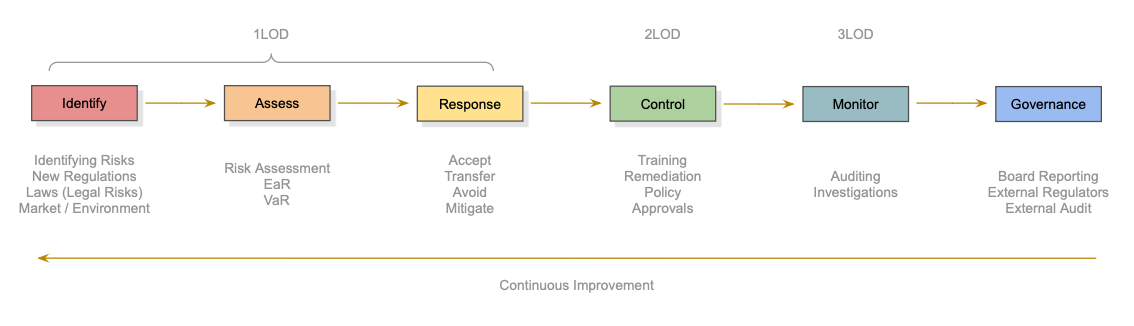
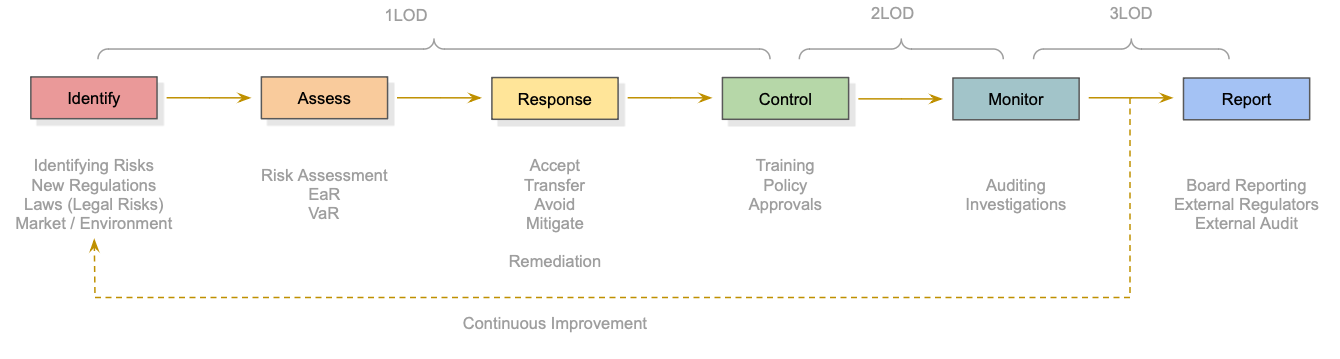
Added Amol's suggestions

diff --git a/docs/bok/Activities/Level-2/Consumption-Compliance.md b/docs/bok/Activities/Level-2/Consumption-Compliance.md
@@ -5,7 +5,7 @@ tags:
   - Level 2 (OSMM)
   - Risk-Compliance (Role)
   - Legal Risk
-sidebar_position: 6
+sidebar_position: 0
 sidebar_label: Compliance
 ---
 
@@ -27,6 +27,8 @@ The three lines of defence is a risk management model commonly used in the banki
 
 - **3LOD: Independent Assurance:** This includes **internal auditors** .  The third line of defence provides independent assurance on the effectiveness of the overall risk management framework and ensures that any deficiencies or gaps are addressed. This includes periodic audits, required disclosures and annual financial reporting. 
 
+Within regulated industries, the **3LOD**risk also reports upwards to:
+
 - **External auditors/regulators:**  **External auditors** can play an important role through their considerations of the governance and control structure where this is relevant to financial reporting.  For regulated entities,  governance and risk management requirements (see below for examples) are often set by **regulators**.
 
 Further Reading:
@@ -42,11 +44,23 @@ The compliance department plays a critical role in maintaining the bank's [reput
 
 ## Risk And Control:  A Case-Study
 
-All organisations should have some way of controlling for risks.  However, in regulated industries this framework is a significant part of the whole organisation, with multiple departments (e.g. Risk, Compliance, Internal Audit) participating in control processes.
+All organisations should have some framework for controlling for risks.  However, in regulated industries this framework is a significant part of the whole organisation, with multiple departments (e.g. Risk, Compliance, Internal Audit) participating in control processes.
+
+In this section we are going to present a generic _Risk and Control Framework_ and apply this to the example of [Log4Shell](https://en.wikipedia.org/wiki/Log4Shell), a recent security vulnerability, to see how organisations might respond to new risks and incorporate them into their processes.  
 
 ![Risk and Control Framework](/img/bok/risk-and-control.png)
 
-The above diagram breaks down the process of risk and control.   In 2021, the [Log4Shell](https://en.wikipedia.org/wiki/Log4Shell) incident occurred which forced many organisations to re-assess their stance towards open source consumption.  Let's apply the above model to the response to [Log4Shell](https://en.wikipedia.org/wiki/Log4Shell), a recent security vulnerability, to see how organisations respond to new risks and incorporate them into their processes.  
+The above diagram breaks down the process of risk and control and is a simplification (for explanatory purposes) of various pre-existing frameworks that an organisation could use, all incorporating the idea of _feedback_.  
+
+For further details, see:
+
+ - [COSO's Enterprise Risk Management Framework](https://www.accaglobal.com/gb/en/student/exam-support-resources/professional-exams-study-resources/strategic-business-leader/technical-articles/coso-enterprise-risk-management-framework.html)
+ - [NIST's Cybersecurity Framework](https://www.nist.gov/cyberframework)
+ - [RMF](https://www.selecthub.com/risk-management/risk-management-framework/)
+ - [Deming's Plan Do Check Adjust](https://en.wikipedia.org/wiki/PDCA)   
+ - [8-Step Process for Facility Security Risk Assessment](https://totalsecurityadvisor.blr.com/facility-security/8-step-process-facility-security-risk-assessment/)
+
+In 2021, the [Log4Shell](https://en.wikipedia.org/wiki/Log4Shell) incident occurred which forced many organisations to re-assess their stance towards open source consumption.  
 
 ### 1.Identify
 
@@ -60,7 +74,7 @@ The Log4Shell vulnerability was reported in November 2021 and received significa
 
 From a compliance perspective, this vulnerability posed a significant [Data Leakage Risk](../../Risks/Data-Leakage-Risk), which potentially violates [several laws](../../Risks/Data-Leakage-Risk#personal-information). 
 
-### 3. Response
+### 3. Response / Remediation
 
  - For firms, an immediate effort was required to patch all Java systems using affected versions of Log4j that were facing the public internet. 
  - For unprepared organisations, a new focus on [open source Supply Chain Security](Supply-Chain-Security).
@@ -81,23 +95,42 @@ A firm would need to adopt a model like this into its security organisation whic
 
 These new controls will be described within [Policy Documents](../../Artifacts/Policy) that the compliance department will help to write.  Setting up controls like these might involve significant [training](Training) of staff.
 
+#### Example Control:  Approval Process for Using A New Software Library
+
+Organisations might introduce an approval process for the use of new software libraries.  When a new (to the firm) library is required a request would be submitted and require review from [Legal](../../Roles/Legal) (for licensing checks), [CIO](../../Roles/CIO) (for considering data implications), [CISO/Security](../../Roles/CISO) teams (for security considerations).  
+ 
+Consideration might be given to the venue in which the software is running.  _Internal Cloud_ will have different licensing requirements to _external cloud_.  _Hybrid cloud_ environments might require stricter rules around data security.
+
+#### Example Control: Security Training
+
+At this point, the organisation might consider [Training](Training) around security topics for open source.
+
 ### 5. Monitor
 
 **Evidencing** refers to the process of collecting, maintaining, and presenting documentation, records, or other forms of proof that demonstrate an organization's adherence to applicable laws, regulations, and industry standards. 
 
 Evidencing is a crucial aspect of compliance management, as it enables organizations to show that they are fulfilling their compliance obligations, both internally and externally.
 
-Within the Log4Shell case study, the internal auditors might require a quarterly report detailing who is dealing with vulnerabilities, evidence of identification, assessment and control.  Can the security function demonstrate that they have managed the risk effectively?
+Within the Log4Shell case study, the internal auditors might require a quarterly report detailing who is dealing with vulnerabilities, evidence of identification, assessment and control.  Can the security function demonstrate that they have managed the risk effectively? 
 
-### 6.  Governance
+For the above controls mentioned above, it might require evidencing of _mandatory training_ or a log of activity in the _approval process_
+
+### 6.  Report
 
 The board, external auditors and regulators will want to know that the firm is complying with its duty to the shareholders, financial standards and laws respectively.  
+
+For a high-severity incident like Log4Shell, reporting is likely to begin early with the 1LOD and 2LOD detailing their plans for remediation to the board, with follow-ups as the incident unfolds.   Regulators might also request oversight into the remediation activities.  
 
 ### 7. Feedback / Continuous Improvement
 
 As the [Data Leakage](../../Risks/Data-Leakage-Risk) article shows, there are significant existing laws around data leakage which would cover the situation where the Log4Shell vulnerability was exploited and data was leaked.  
 
-Nevertheless, as a result of Log4Shell, governments are writing drafting new laws around cybersecurity.  As these become law, they will re-enter the risk-and-control framework and organisations will need to update their controls and policies accordingly.
+Nevertheless, as a result of Log4Shell (and other high-profile incidents), governments have been under increased pressure to draft new laws around cybersecurity.  As these become law, they will re-enter the risk-and-control framework and organisations will need to update their controls and policies to meet them.
+
+See Also:
+
+ - [EU Cyber Resilience Act 2022](https://digital-strategy.ec.europa.eu/en/policies/cyber-resilience-act) 
+ - [US Securing Open Source Software Act 2022](https://www.congress.gov/bill/117th-congress/senate-bill/4913) /  [OpenSSF Response](https://openssf.org/blog/2022/09/27/the-united-states-securing-open-source-software-act-what-you-need-to-know/)
 
 ## Intersection with Open Source Consumption
 
@@ -134,12 +167,6 @@ So, we can see that compliance policy exists to _deal with risk_.  There are sev
 ## Consumption Controls
 
 The consumption policy for open source will usually be arranged around _meeting controls for the above risks_. 
-
-#### Approval Process for Using A New Open Source Library
-
-Looking at the data implications, licensing requirements and security implications of the library.  Usually, once approved, the library will be usable by others.  This will require review from [Legal](../../Roles/Legal), [CIO](../../Roles/CIO), [CISO/Security](../../Roles/CISO) teams.   
-
-Consideration might be given to the venue where the software is running.  _Internal Cloud_ will have different licensing requirements to _external cloud_.  _Hybrid cloud_ environments might require stricter rules around data security.
 
 #### CI/CD Pipelines
 

diff --git a/docs/bok/Risks/Reputational-Risk.md b/docs/bok/Risks/Reputational-Risk.md
@@ -17,6 +17,10 @@ Reputational risk refers to the potential harm to an organization's reputation a
 
 See: [Wells Fargo Cross-Selling Scandal](https://en.wikipedia.org/wiki/Wells_Fargo_cross-selling_scandal)
 
+**Example**: In 2012, Barclays was fined $453 million by US and UK authorities for [manipulating global benchmark interest rates. The scandal led to the resignation of CEO Bob Diamond and a significant loss of customer trust.
+
+See: [Understanding the LIBOR Scandal](https://www.cfr.org/backgrounder/understanding-libor-scandal)
+
 ## Risk Management Activities
 
 <BokTagList tag="Reputational Risk" filter="Activities" />
